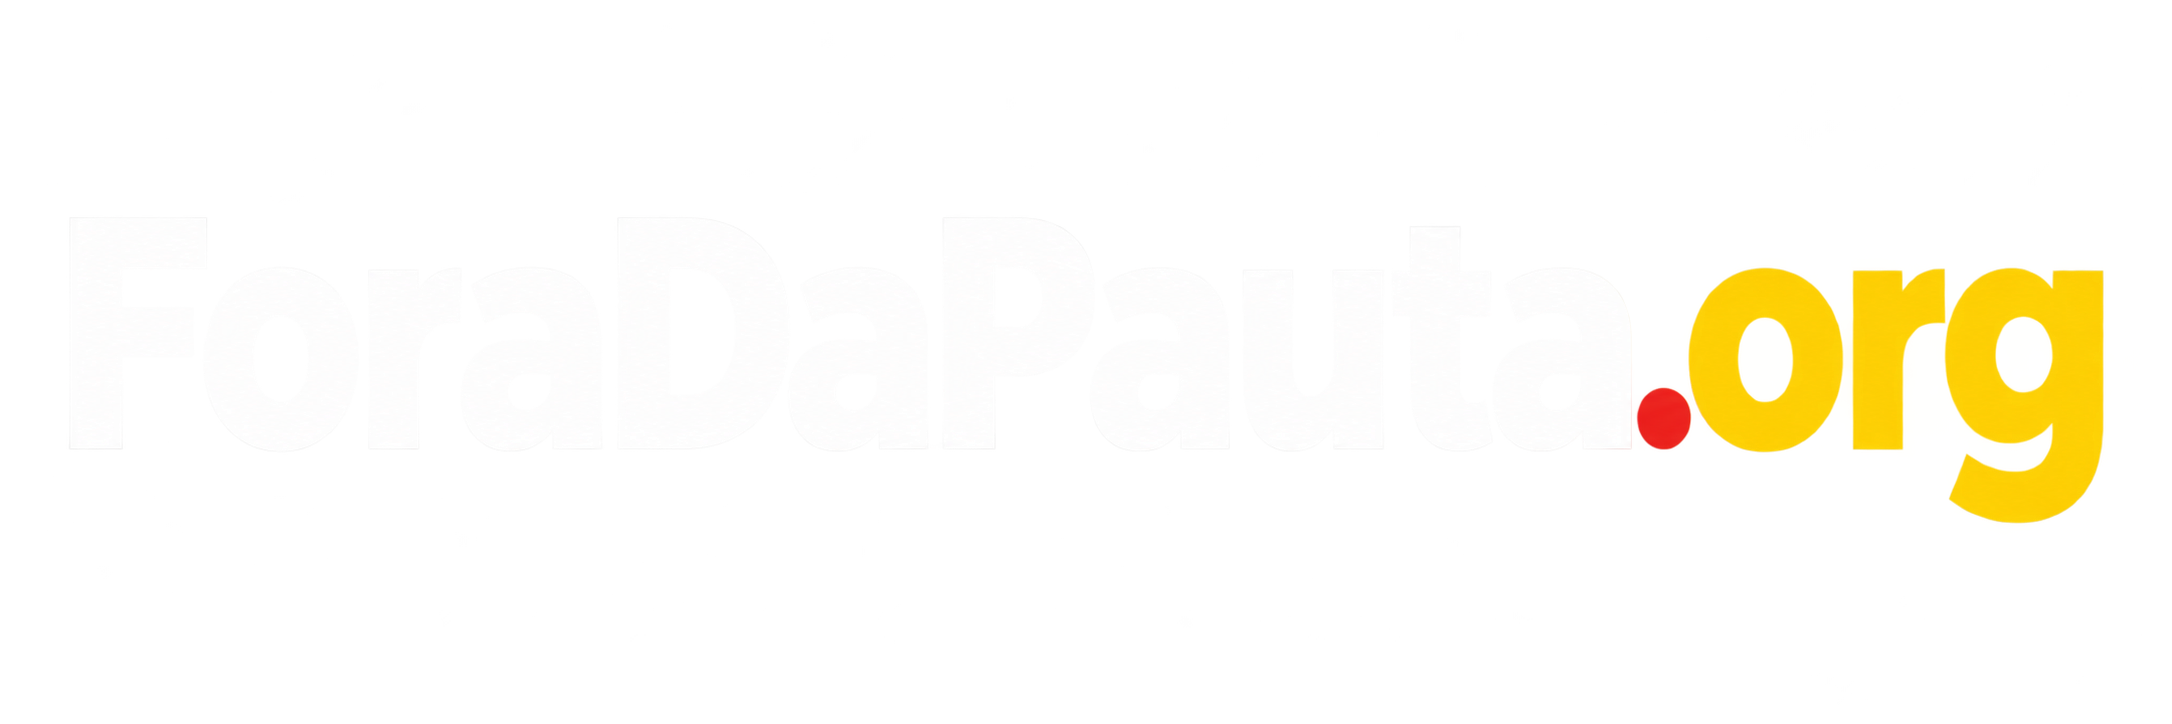
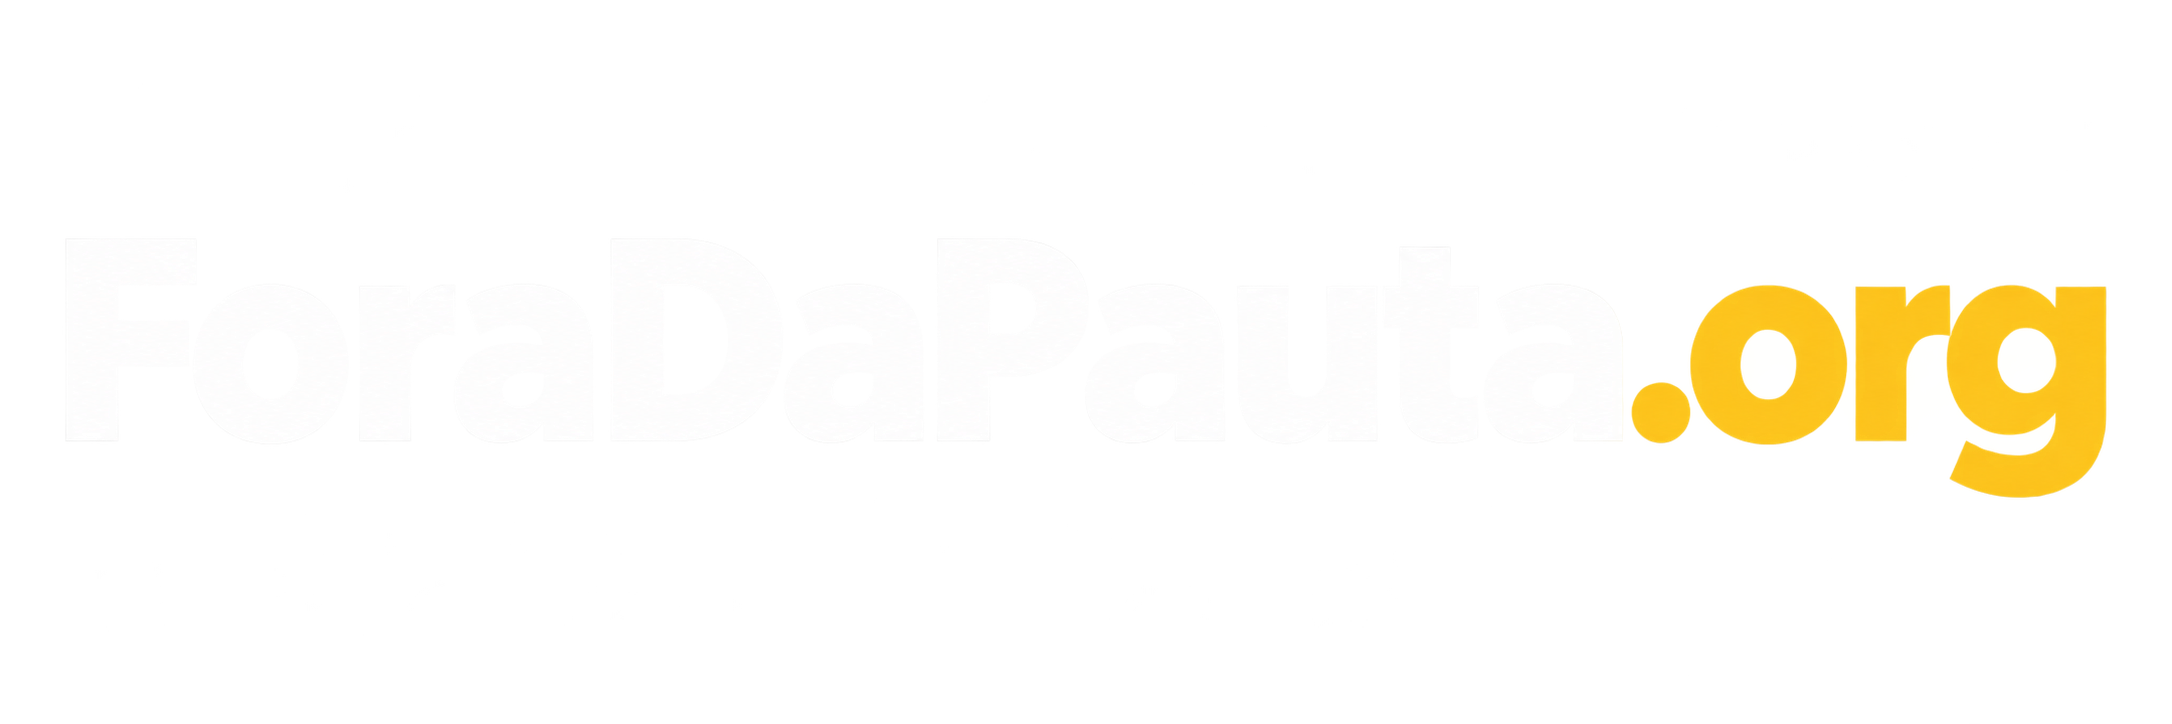
Atualiza logomarca oficial ForaDaPauta.org

Changed region(s): [[0.7403, 0.3646, 0.9871, 0.7293]]

diff --git a/components/LogoForaDaPauta.tsx b/components/LogoForaDaPauta.tsx
@@ -1,4 +1,4 @@
-/** Logomarca oficial resgatada, traçada diretamente da arte aprovada. */
+/** Logomarca oficial aprovada. */
 export function LogoForaDaPauta({ className = "" }: { className?: string }) {
-  return <img src="/marca/fora-da-pauta-logo-oficial.svg" alt="FORA DA PAUTA" width={1090} height={270} className={className} />;
+  return <img src="/marca/foradapauta-oficial.png" alt="ForaDaPauta.org" width={2172} height={724} className={className} />;
 }
